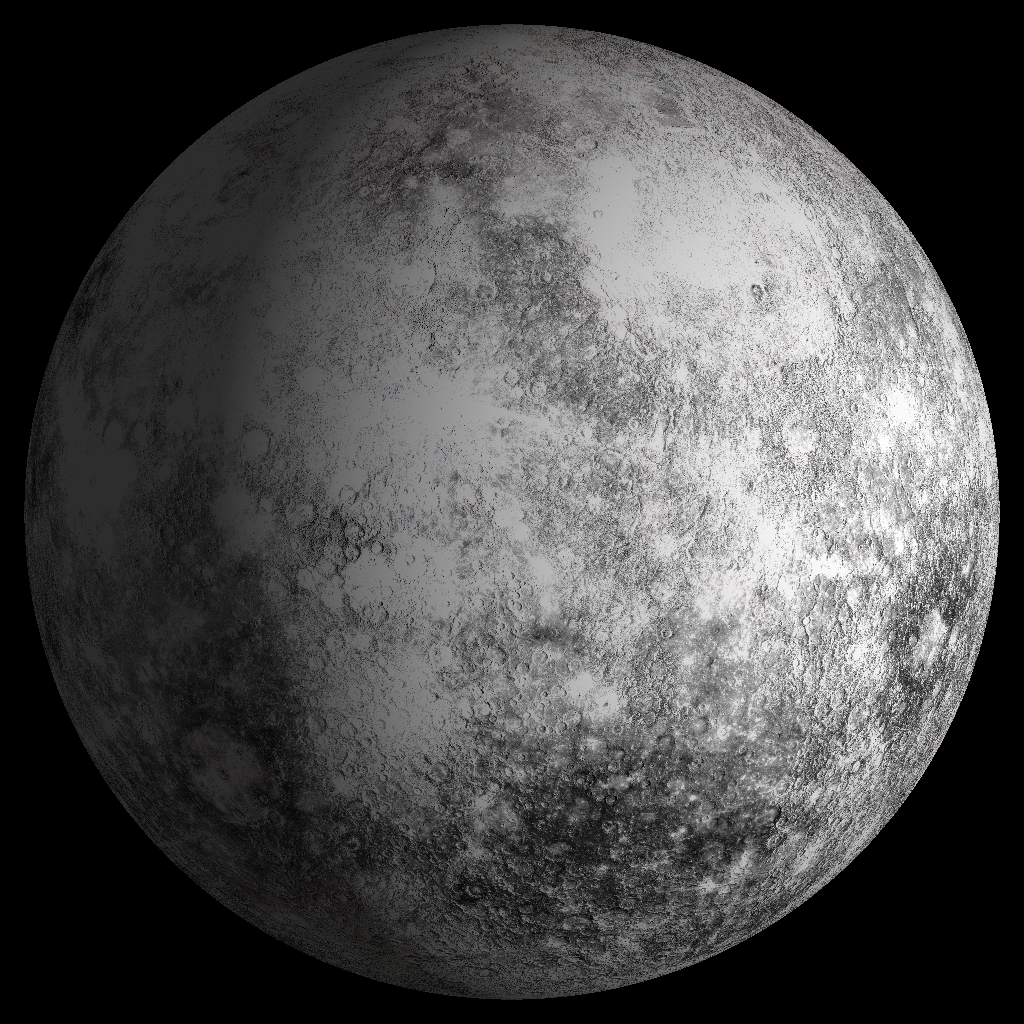
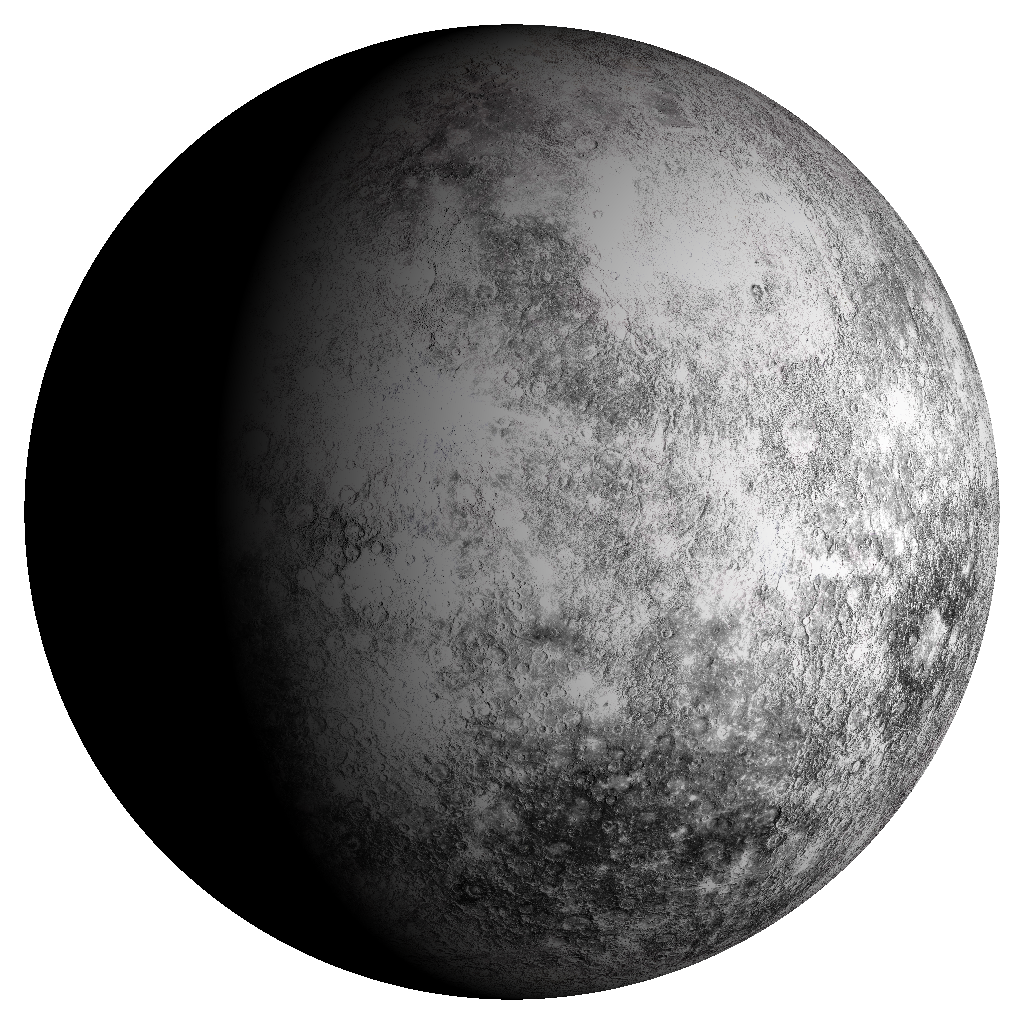
docs(readme): flyby render uses ambient=0.0
Set the MESSENGER M1 flyby render to ambient=0.0 so the shadow side
goes fully dark (sharp terminator) instead of sitting at a 0.18 floor.
Regenerated figures/flyby/messenger_m1_render.png.

diff --git a/README.md b/README.md
@@ -709,7 +709,7 @@ tex = ImageEnhance.Contrast(tex).enhance(2.0)
 tex = ImageEnhance.Brightness(tex).enhance(1.7)
 
 img = render_disk(tex, view_direction=view, sun_direction=sun,
-                  size=1024, ambient=0.18)
+                  size=1024, ambient=0.0)
 # range ≈ 29 000 km; phase angle ≈ 52°, so MESSENGER saw an ~80%-lit
 # departing gibbous (the terminator clips the lower-left limb).
 Image.fromarray(img).save("messenger_m1.png")